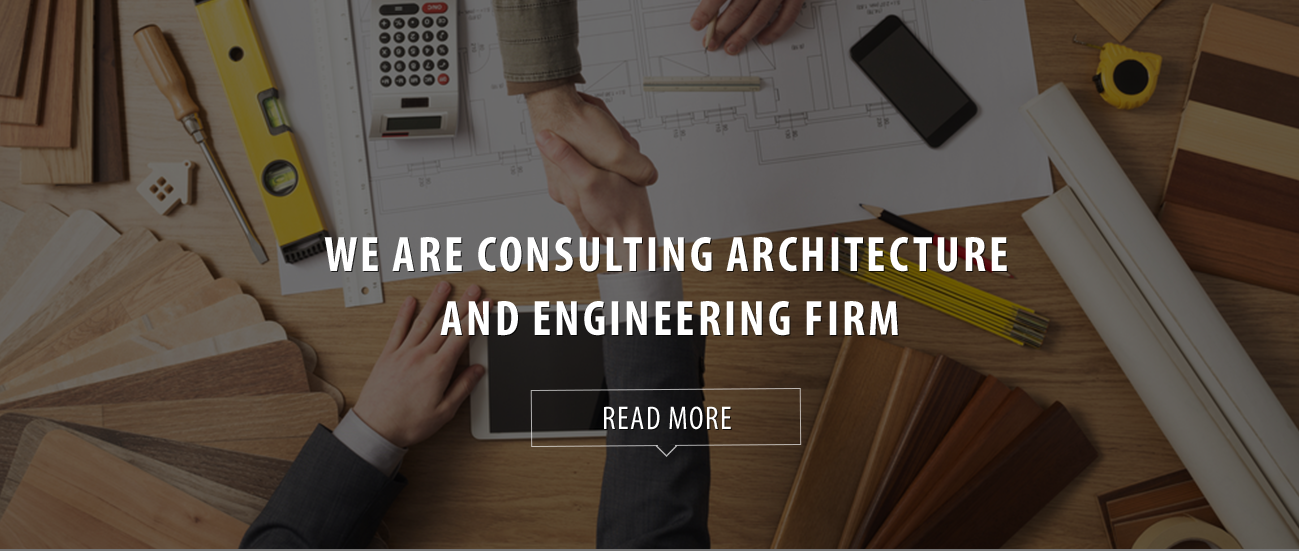
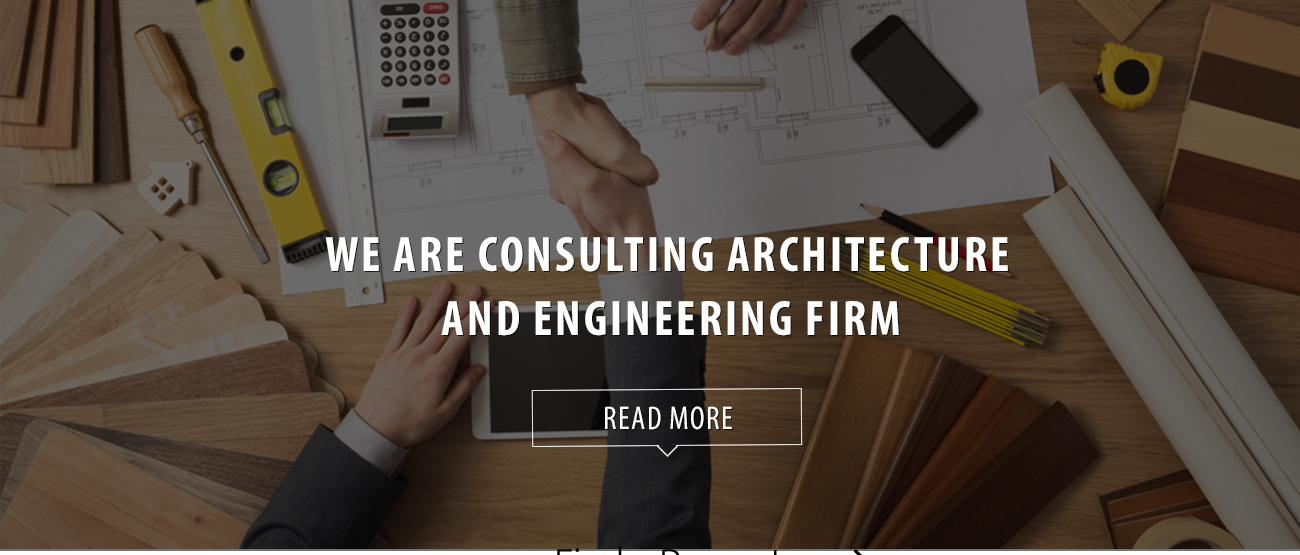
adding latest comments

diff --git a/css/style.css b/css/style.css
@@ -1,3 +1,20 @@
+img.hover:hover {
+    opacity:0.7;
+}
+
+p.light {
+    font-family: 'ubuntu', sans-serif!important;
+    font-weight:lighter!important;
+    font-size:20px;
+    text-align: center!important;
+}
+
+article.intro h2.light {
+    font-family: 'ubuntu', sans-serif!important;
+    font-weight:lighter;
+    font-size:30px;
+}
+
 .header.jumbotron {
 	background-color:#000;
 	max-height:153px;
@@ -40,14 +57,14 @@ ul.navigation {
 ul.navigation li {
 	list-style: none;
 	width:100px;
-	color:#fff;
+	color:#000;
 	display: inline-block;
 	font-size:18px;
 }
 
 ul.navigation li a {
-	color:#fff;
-	font-family: 'MYRIADPROREGULAR';
+	color:#000;
+	font-family: 'Ubuntu', sans-serif;
 }
 
 img {
@@ -165,6 +182,10 @@ box-shadow: 50px 0px 5px 0px rgba(235,235,235,1);
 	margin-bottom:50px;
 }
 
+.m-b-10 {
+    margin-bottom:10px;
+}
+
 .m-t-0 {
 	margin-top:0px;
 }
@@ -191,13 +212,13 @@ button.contact:hover {
 }
 
 button.contact {
-	font-family: 'MYRIADPROREGULAR';
+	font-family: 'Ubuntu', sans-serif;
 	width:360px;
 	height:70px;
 	background-color:#3d3b35;
 	font-size:24px;
 	color:#fff!important;
-	letter-spacing:15.5px;
+	letter-spacing:8px;
 	border:none;
 	margin:50px 0 50px 0;
 }
@@ -228,11 +249,12 @@ padding:20px 0 8px 0;
  }
 
 ul.links li a {
-	font-family: 'MyriadProBoldCondensed' !important;
+	font-family: 'Ubuntu', sans-serif!important;
 	font-weight: bold;
 	font-size:24px;
 	color:#d0d2d3;
 	text-decoration:none;
+    font-weight: lighter;
 }
 
 ul.links li:hover a ,ul.links li.active a{
@@ -302,11 +324,13 @@ ul.links li:hover, ul.links li.active {
 
 body {
   overflow-x:hidden;
-  font-family: 'MYRIADPROREGULAR';
+  font-family: 'Ubuntu', sans-serif;
+  font-weight: lighter;
 }
 
 h1,h2,h3,h4,h5,h6, p,span {
-	font-family: 'MYRIADPROREGULAR'!important;
+	font-family: 'Ubuntu', sans-serif!important;
+    font-weight: lighter;
 }
 
 .borderbox2 {
@@ -328,10 +352,11 @@ box-shadow: 20px 15px 5px 5px rgba(231,230,230,1);
 	font-size:18px;
 	font-weight: bold;
 	padding:15px 15px 15px 15px;
+    font-weight: lighter;
 }
 .button-box {
-	width:560px;
-	height:123px;
+	width:580px;
+	height:105px;
 	background-color:#e8e8e8;
 	position: absolute;
 	bottom: -25px;
@@ -340,10 +365,10 @@ box-shadow: 20px 15px 5px 5px rgba(231,230,230,1);
 	cursor: pointer;
 	color:#3e3c36;
 	font-size:30px;
-	font-family: 'MyriadProBoldCondensed' !important;
+	font-family: 'Ubuntu', sans-serif!important;
 	font-weight: bold;
-	letter-spacing:15.5px;
-	padding: 35px 0px 0px 135px;
+	letter-spacing:8px;
+    padding: 28px 0px 0px 178px;
 }
 
 .button-box:hover {
@@ -412,9 +437,9 @@ article.intro p {
 }
 
 article.contactcontent p {
-	font-size:22px;
+	font-size:17px;
 	color:#666;
-	text-align: justify;
+	text-align: center;
 	margin:25px auto;
 }
 

diff --git a/projectdetails.html b/projectdetails.html
@@ -11,25 +11,24 @@
     <meta http-equiv="X-UA-Compatible" content="IE=edge">
     <meta name="viewport" content="width=device-width, initial-scale=1">
     <title>DH</title>
-
+ <link href="https://fonts.googleapis.com/css?family=Ubuntu" rel="stylesheet">
     <link rel="stylesheet" href="css/bootstrap.css">
     <link rel="stylesheet" href="fonts/font.css">
     <link rel="stylesheet" href="css/font-awesome.min.css">
     <link rel="stylesheet" href="css/animate.css">
     <link rel="stylesheet" href="css/style.css">
-
     <!--[if lt IE 9]>
       <script src="https://oss.maxcdn.com/html5shiv/3.7.2/html5shiv.min.js"></script>
       <script src="https://oss.maxcdn.com/respond/1.4.2/respond.min.js"></script>
     <![endif]-->
   </head>
   <body>
-<div class="header jumbotron">
+<div class="header jumbotron" style="background-color:#fff">
       <div class="container">
         <!-- row 1 -->
         <div class="row">
           <header class="col-md-12">
-           <a href="index.html"><img src="images/logo.png" class="pull-left animated pulse" /></a>
+           <a href="index.html"><img src="images/logoblack.jpg" class="pull-left animated pulse" /></a>
             
 
             <ul class="navigation">
@@ -59,7 +58,7 @@
       </div>
 </div>
 
-<div class="container m-t-40 m-b-50">
+<div class="container m-t-40 m-b-10">
 <img src="images/Title.png" />
 </div>
 
@@ -112,10 +111,9 @@
 
 <div class="row">
 <div class="col-sm-12">
-<i class="fa fa-facebook-square fa-3x cursor"></i>
-<i class="fa fa-twitter-square fa-3x cursor"></i>
-<i class="fa fa-linkedin-square fa-3x cursor"></i>
-<i class="fa fa-pinterest-square fa-3x cursor"></i>
+<br/><br/>
+<img src="images/facebookicon.png" class="hover cursor" />
+<img src="images/instegramicon.png" class="hover cursor" />
 </div>
 </div>
 </div>
@@ -123,7 +121,7 @@
 <div class="container">
 <div class="row">
 <div class="col-sm-12">
-<button class="contact" >Book A Tour</button>
+<button class="contact">book a tour</button>
 </div>
 </div>
 </div>
@@ -157,7 +155,7 @@
     <script src="js/classie.js"></script>
     <script src="js/uisearch.js"></script>
     <script>
-      new UISearch( document.getElementById( 'sb-search' ) );
+      new UISearch(document.getElementById('sb-search'));
     </script>
   </body>
   </html>

diff --git a/index.html b/index.html
@@ -11,7 +11,7 @@
     <meta http-equiv="X-UA-Compatible" content="IE=edge">
     <meta name="viewport" content="width=device-width, initial-scale=1">
     <title>DH</title>
-
+  <link href="https://fonts.googleapis.com/css?family=Ubuntu" rel="stylesheet">
     <link rel="stylesheet" href="css/bootstrap.css">
     <link rel="stylesheet" href="fonts/font.css">
     <link rel="stylesheet" href="css/font-awesome.min.css">
@@ -57,6 +57,14 @@ ul.navigation li {
     color: #fff;
     display: inline-block;
     font-size: 18px;
+}
+
+ul.navigation li a {
+  color:#fff;
+}
+
+#wowslider-container1 a:hover {
+  text-decoration:underline;
 }
 
 p { font-size:28px; }
@@ -145,8 +153,8 @@ p { font-size:28px; }
 <div class="col-md-12 text-center">
 <article class="intro">
 <a href="#" class="readmore pull-right">Read More</a>
-<h2>Who We Are</h2> 
-<p>Our firm's long term experience have lead us through different fields of architectural and engineering services addressing both the private and public sectors. Since its inception D&H has been involved is some of the country's</p>
+<h2 class="light">Who We Are</h2> 
+<p class="light">Our firm's long term experience have lead us through different fields of architectural and engineering services addressing both the private and public sectors. Since its inception D&H has been involved is some of the country's</p>
 </article>
 </div>
 </div>
@@ -168,11 +176,9 @@ p { font-size:28px; }
           <div class="greay-box">
           <p class="content">Apartments with Gardens (190 -210 -230 M2) & Duplexes with Terraces (330 -360 -400 M2) - Starting 406,000$ - Delivery August 2019.</p>
           <div class="row">
-<div class="col-sm-12" style="margin-left:15px;">
-<i class="fa fa-facebook-square fa-2x cursor"></i>
-<i class="fa fa-twitter-square fa-2x cursor"></i>
-<i class="fa fa-linkedin-square fa-2x cursor"></i>
-<i class="fa fa-pinterest-square fa-2x cursor"></i>
+<div class="col-sm-12" style="margin-left:15px;"><br/>
+<img src="images/facebookicon.png" class="hover cursor" />
+<img src="images/instegramicon.png" class="hover cursor" />
 </div>
 </div>
 </div>

diff --git a/contactus.html b/contactus.html
@@ -11,7 +11,7 @@
     <meta http-equiv="X-UA-Compatible" content="IE=edge">
     <meta name="viewport" content="width=device-width, initial-scale=1">
     <title>DH</title>
-
+ <link href="https://fonts.googleapis.com/css?family=Ubuntu" rel="stylesheet">
     <link rel="stylesheet" href="css/bootstrap.css">
     <link rel="stylesheet" href="fonts/font.css">
     <link rel="stylesheet" href="css/font-awesome.min.css">
@@ -24,15 +24,19 @@
     <![endif]-->
   </head>
   <body>
-<div class="header jumbotron">
-      <div class="container">
+<div class="header jumbotron" style="background-color:#fff">
+    <div class="container">
         <!-- row 1 -->
         <div class="row">
           <header class="col-md-12">
-           <a href="index.html"><img src="images/logo.png" class="pull-left animated pulse" /></a>
+            <a href="index.html"><img src="images/logoblack.jpg" class="pull-left animated pulse" /></a>
             
 
-            <ul class="navigation">
+
+
+
+
+        <ul class="navigation">
         <li><a href="index.html">Home</a></li>
         <li><a href="index.html">About</a></li>
           <li><a href="projects.html">Projects</a></li>
@@ -49,6 +53,8 @@
               <span class="sb-icon-search"><i class="fa fa-search" aria-hidden="true"></i></span>
             </form>
           </div>
+
+
            
 
 

diff --git a/projects.html b/projects.html
@@ -11,7 +11,7 @@
     <meta http-equiv="X-UA-Compatible" content="IE=edge">
     <meta name="viewport" content="width=device-width, initial-scale=1">
     <title>DH</title>
-
+ <link href="https://fonts.googleapis.com/css?family=Ubuntu" rel="stylesheet">
     <link rel="stylesheet" href="css/bootstrap.css">
     <link rel="stylesheet" href="fonts/font.css">
     <link rel="stylesheet" href="fonts/font2.css">
@@ -32,12 +32,12 @@
 
   </head>
   <body>
-<div class="header jumbotron">
+<div class="header jumbotron" style="background-color:#fff">
     <div class="container">
         <!-- row 1 -->
         <div class="row">
           <header class="col-md-12">
-            <a href="index.html"><img src="images/logo.png" class="pull-left animated pulse" /></a>
+            <a href="index.html"><img src="images/logoblack.jpg" class="pull-left animated pulse" /></a>
             
 
 
